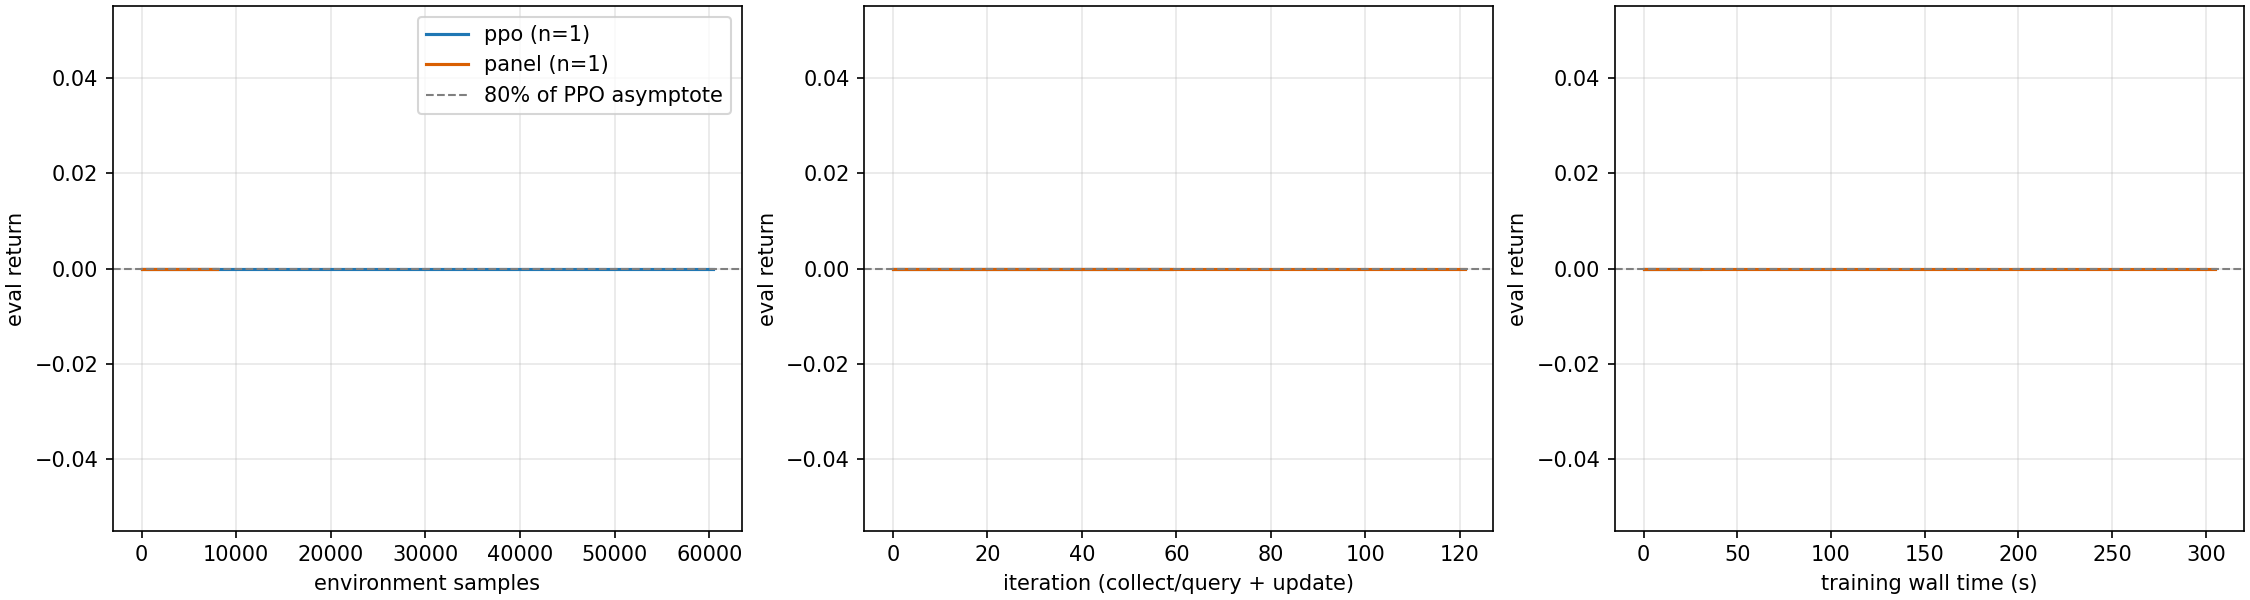
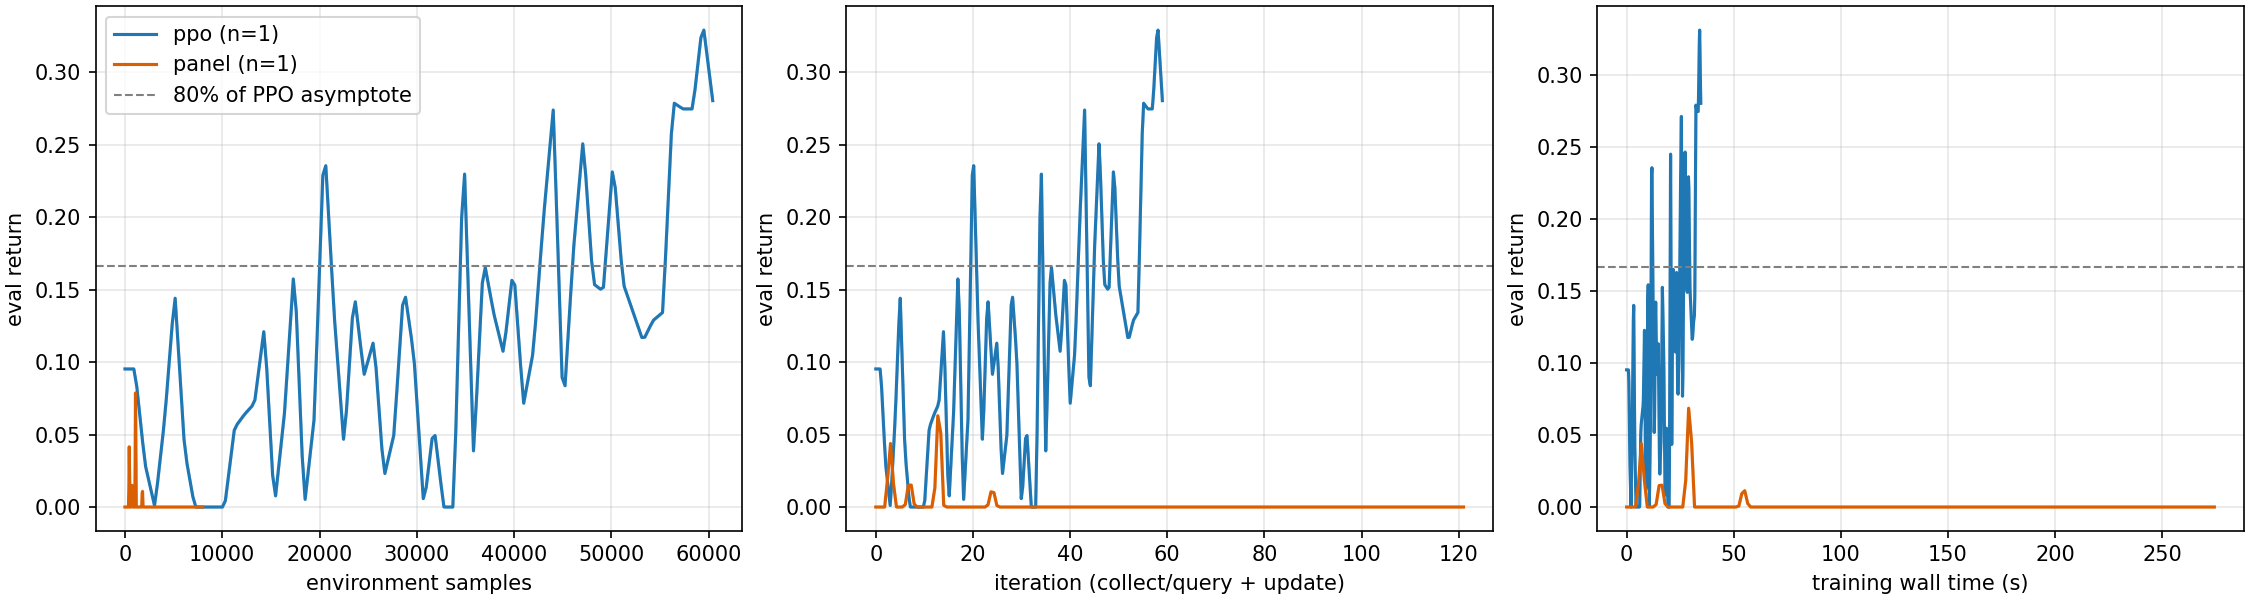
Add real rollout support and evaluation report for panel training

diff --git a/reports/H1_01_collapse_eval.html b/reports/H1_01_collapse_eval.html
@@ -1,0 +1,160 @@
+<!doctype html>
+<html lang="en">
+<head>
+<meta charset="utf-8">
+<meta name="viewport" content="width=device-width, initial-scale=1">
+<title>Panel collapse eval: Empty-5x5</title>
+<style>
+:root{
+  --bg:#f9f9f7; --surface:#fcfcfb; --ink:#0b0b0b; --ink2:#52514e; --muted:#898781; --grid:#e1e0d9; --axis:#c3c2b7;
+  --s1:#2a78d6; --s2:#eb6834; --s3:#1baf7a; --s4:#eda100; --s5:#e87ba4; --s6:#6250d6; --bad:#d03b3b; --good:#006300;
+}
+@media (prefers-color-scheme: dark){:root:not([data-theme="light"]){
+  --bg:#0d0d0d; --surface:#1a1a19; --ink:#f0efec; --ink2:#c3c2b7; --grid:#2c2c2a; --axis:#383835;
+  --s1:#3987e5; --s2:#d95926; --s3:#199e70; --s4:#c98500; --s5:#d55181; --s6:#9085e9; --bad:#e66767; --good:#0ca30c; color-scheme:dark;}}
+:root[data-theme="dark"]{
+  --bg:#0d0d0d; --surface:#1a1a19; --ink:#f0efec; --ink2:#c3c2b7; --grid:#2c2c2a; --axis:#383835;
+  --s1:#3987e5; --s2:#d95926; --s3:#199e70; --s4:#c98500; --s5:#d55181; --s6:#9085e9; --bad:#e66767; --good:#0ca30c; color-scheme:dark;}
+body{background:var(--bg);color:var(--ink);font:15px/1.55 system-ui,-apple-system,Segoe UI,sans-serif;margin:0;padding-inline:max(16px,4vw)}
+main{max-width:980px;margin:0 auto;padding-block:32px 64px}
+h1{font-size:1.7rem;margin:0 0 4px;letter-spacing:-.01em} h2{font-size:1.15rem;margin:36px 0 8px}
+.sub{color:var(--ink2);margin:0 0 20px}
+p,li{max-width:70ch} ul{padding-left:1.2em}
+.card{background:var(--surface);border:1px solid var(--grid);border-radius:10px;padding:16px;margin:12px 0}
+.tiles{display:grid;grid-template-columns:repeat(auto-fit,minmax(200px,1fr));gap:12px;margin:16px 0}
+.tile .n{font-size:1.9rem;font-weight:650;letter-spacing:-.02em} .tile .l{color:var(--ink2);font-size:.85rem}
+.legend{display:flex;flex-wrap:wrap;gap:6px 16px;margin:4px 0 8px;font-size:.85rem;color:var(--ink2)}
+.legend span{display:inline-flex;align-items:center;gap:6px}
+.legend i{width:14px;height:3px;border-radius:2px;display:inline-block}
+.scroll{overflow-x:auto}
+table{border-collapse:collapse;width:100%;font-size:.88rem;font-variant-numeric:tabular-nums}
+th,td{text-align:left;padding:7px 10px;border-bottom:1px solid var(--grid);white-space:nowrap}
+th{color:var(--ink2);font-weight:600} td.num,th.num{text-align:right}
+td.wrap{white-space:normal;min-width:240px}
+.sw{display:inline-block;width:10px;height:10px;border-radius:2px;margin-right:6px}
+svg text{fill:var(--muted);font-size:11px} svg .lab{font-size:11.5px;font-weight:600}
+#tip{position:fixed;pointer-events:none;background:var(--surface);color:var(--ink);border:1px solid var(--axis);border-radius:6px;padding:6px 9px;font-size:.8rem;display:none;box-shadow:0 2px 8px #0003;z-index:5}
+.note{color:var(--ink2);font-size:.85rem}
+.tag{font-size:.75rem;padding:1px 7px;border-radius:99px;border:1px solid var(--axis);color:var(--ink2)}
+</style>
+</head>
+<body>
+<main>
+<h1>Panel collapse eval: Empty-5x5</h1>
+<p class="sub">Does the judge-panel agent keep its return when imagination is shortened or mixed with real rollouts? Single seed, 4,000 env samples per run, 2026-10-28.</p>
+
+<div class="tiles">
+  <div class="card tile"><div class="n" style="color:var(--bad)">0.00</div><div class="l">Control (imagined horizon 8, all imagined): return after 3,456 samples</div></div>
+  <div class="card tile"><div class="n">0.72</div><div class="l">Best peak: horizon 2, imagination only, at ~1,100 samples</div></div>
+  <div class="card tile"><div class="n">5 / 5</div><div class="l">Variants that never fell to zero (all of them changed or shortened the horizon, or mixed real data)</div></div>
+</div>
+
+<h2>Finding</h2>
+<ul>
+  <li><b>Horizon is the lever.</b> Every horizon-2 run learns and stays above 0. The horizon-8 control collapses to 0.00 and stays there. Horizon 8 with real data mixed in (<code>mix50_h8</code>) never collapses but learns poorly (0.07–0.36).</li>
+  <li><b>Real rollouts did not help on this env.</b> Imagination-only horizon 2 is fastest early (0.68 at 832 samples). Mixes spend budget on real steps and reach similar levels later. The ramp (real-only at first) is slowest.</li>
+  <li><b>Likely cause:</b> model errors compounding over long imagined rollouts. This is consistent with the data but not isolated from entropy collapse (see ablations).</li>
+  <li><b>Scope:</b> this is the easiest env. A flat 0.0 on DoorKey-5x5 at 8k samples (old settings) shows the result may not transfer, so env difficulty is a first-class axis below.</li>
+</ul>
+
+<h2>Eval return vs env samples</h2>
+<div class="card">
+  <div class="legend" id="legend"></div>
+  <svg id="chart" viewBox="0 0 900 380" width="100%" role="img" aria-label="Eval return versus env samples for six panel configurations"></svg>
+  <p class="note">Each point is a 10-episode eval, so ±0.1 is noise. Lines show the logged points (about every 190–250 samples; the control's points are the ones reported earlier). Hover a point for its value. The table below has the same numbers.</p>
+</div>
+
+<h2>Summary table</h2>
+<div class="card scroll"><table id="summary"></table></div>
+
+<h2>Configurations</h2>
+<div class="card scroll"><table>
+<tr><th>Run</th><th class="num">Imagined horizon</th><th class="num">Real rollouts / round</th><th class="num">Imagined share</th><th>Note</th></tr>
+<tr><td>control</td><td class="num">8</td><td class="num">0</td><td class="num">100%</td><td>Earlier run, before the fix; same code path as the default config</td></tr>
+<tr><td>imag_h2</td><td class="num">2</td><td class="num">0</td><td class="num">100%</td><td></td></tr>
+<tr><td>mix80_h2</td><td class="num">2</td><td class="num">8 × 4 steps</td><td class="num">80%</td><td>Real steps are charged to the sample budget</td></tr>
+<tr><td>mix50_h2</td><td class="num">2</td><td class="num">8 × 4 steps</td><td class="num">50%</td><td></td></tr>
+<tr><td>mix50_h8</td><td class="num">8</td><td class="num">8 × 4 steps</td><td class="num">50%</td><td>Logged as <code>mix50_h4</code> in the sweep (its real horizon is 4; imagined is 8)</td></tr>
+<tr><td>ramp50</td><td class="num">8</td><td class="num">8 × 4 steps</td><td class="num">0% → 50% over 3,000 samples</td><td>Starts as real-data PPO</td></tr>
+</table></div>
+
+<h2>Where this depends on environment simplicity</h2>
+<p>Empty-5x5 has dense, short-horizon reward and a near-deterministic world, so a small judge ensemble fits it in a few hundred samples (judge disagreement was already ~5e-4). DoorKey needs a key, a door and a far goal: sparse reward, longer credit assignment, and a world with discrete state changes that judges find harder to fit. What we have so far:</p>
+<div class="card scroll"><table>
+<tr><th>Env</th><th>PPO</th><th>Panel</th><th>Status</th></tr>
+<tr><td>Empty-5x5</td><td>~0.77 at ~20k samples</td><td>0.5–0.7 at 1–4k (horizon 2)</td><td><span class="tag">measured, 1 seed</span></td></tr>
+<tr><td>DoorKey-5x5</td><td>~0.7 asymptote, 0.49 at 100k, 0.60 at 220k, 0.75 at 296k</td><td>0.0 at 8k (old settings, horizon 8)</td><td><span class="tag">panel not yet re-run</span></td></tr>
+<tr><td>DoorKey-8x8</td><td>not run</td><td>not run</td><td><span class="tag">planned</span></td></tr>
+</table></div>
+<p class="note">The 80%-of-asymptote H1 threshold only works once PPO's asymptote is measured, which it now is for DoorKey-5x5 but not for Empty-5x5.</p>
+
+<h2>Ablations to mix in next</h2>
+<p>Ordered by how much each would change what we believe. Each is a one-line config change or a small code change on the existing trainer.</p>
+<div class="card scroll"><table>
+<tr><th>#</th><th>Ablation</th><th>Question it answers</th><th>Cost</th></tr>
+<tr><td>1</td><td class="wrap"><b>Horizon sweep</b>: 1, 2, 4, 8 (imagination only)</td><td class="wrap">Is there a smooth degradation, or a cliff? Confirms the main lever.</td><td>config</td></tr>
+<tr><td>2</td><td class="wrap"><b>Entropy bonus</b>: 0.01 vs 0.05 at horizon 8</td><td class="wrap">Separates "model error" from "entropy collapse" as the cause of the zero.</td><td>config</td></tr>
+<tr><td>3</td><td class="wrap"><b>Seeds</b>: 3–5 on the best two configs</td><td class="wrap">Current curves are one seed with 10-episode evals; the dip in imag_h2 may be noise.</td><td>time</td></tr>
+<tr><td>4</td><td class="wrap"><b>Pessimism penalty</b>: subtract k × judge disagreement from imagined reward</td><td class="wrap">Uses the panel's own uncertainty to stop the policy exploiting model errors (the H3 story, in small).</td><td>small code</td></tr>
+<tr><td>5</td><td class="wrap"><b>Competence weights vs uniform average</b></td><td class="wrap">Is the anchor-based weighting earning its place?</td><td>small code</td></tr>
+<tr><td>6</td><td class="wrap"><b>Disagreement queries vs random queries</b> (anchor_frac 1.0)</td><td class="wrap">Is active querying the source of the sample efficiency?</td><td>config</td></tr>
+<tr><td>7</td><td class="wrap"><b>Judge count</b>: 1, 2, 4, 8, 16</td><td class="wrap">How much of the effect needs a panel rather than a single model?</td><td>config</td></tr>
+<tr><td>8</td><td class="wrap"><b>Judge refit budget</b>: judge_steps 25 / 100 / 400</td><td class="wrap">Is the model under-trained or over-trained between rounds?</td><td>config</td></tr>
+<tr><td>9</td><td class="wrap"><b>Imagined start states</b>: whole pool vs recent states only</td><td class="wrap">Imagining from states the policy actually visits may matter more on harder envs.</td><td>small code</td></tr>
+<tr><td>10</td><td class="wrap"><b>PPO epochs on imagined data</b>: 1 / 2 / 4</td><td class="wrap">Over-optimizing on a fixed imagined batch is another route to exploitation.</td><td>config</td></tr>
+<tr><td>11</td><td class="wrap"><b>Env ladder</b>: Empty-5x5, Empty-8x8, DoorKey-5x5, DoorKey-8x8</td><td class="wrap">Where does the best config stop working? This is the "depends on simplicity" axis.</td><td>time</td></tr>
+</table></div>
+<p class="note">Suggested pairing: run 1+2 together on Empty-5x5 (cheap, ~2 min each), then 3, then carry the winner to DoorKey-5x5 with 4 and 9.</p>
+</main>
+<div id="tip"></div>
+<script>
+const S = [
+ {k:"control",  c:"--s5", label:"control (h8, all imagined)", d:[[320,.33],[1664,.48],[2112,.58],[2560,.02],[3456,0],[4000,0]], dash:"5 4"},
+ {k:"imag_h2",  c:"--s1", label:"imag_h2",  d:[[320,.16],[576,.26],[832,.68],[1088,.72],[1344,.49],[1600,.48],[1856,.35],[2112,.35],[2368,.36],[2624,.48],[2880,.39],[3136,.52],[3392,.68],[3648,.67],[3904,.54],[4000,.51]]},
+ {k:"mix80_h2", c:"--s3", label:"mix80_h2", d:[[352,.02],[544,.11],[736,.32],[927,.40],[1117,.33],[1307,.26],[1499,.37],[1691,.27],[1882,.50],[2072,.50],[2264,.53],[2455,.57],[2647,.53],[2839,.58],[3027,.48],[3219,.60],[3410,.59],[3600,.66],[3789,.64],[3978,.53],[4000,.54]]},
+ {k:"mix50_h2", c:"--s2", label:"mix50_h2", d:[[352,.22],[544,.10],[733,.20],[924,.34],[1110,.24],[1302,.35],[1494,.24],[1683,.12],[1869,.36],[2059,.38],[2250,.40],[2437,.48],[2626,.47],[2818,.51],[3007,.47],[3196,.48],[3387,.69],[3579,.49],[3767,.65],[3957,.57],[4000,.68]]},
+ {k:"mix50_h8", c:"--s4", label:"mix50_h8", d:[[352,.07],[542,.17],[734,.15],[925,.17],[1117,.17],[1309,.19],[1498,.20],[1687,.27],[1879,.33],[2066,.33],[2258,.19],[2450,.34],[2641,.19],[2830,.19],[3020,.23],[3211,.23],[3403,.32],[3592,.26],[3781,.18],[3973,.08],[4000,.36]]},
+ {k:"ramp50",   c:"--s6", label:"ramp50 (h8)", d:[[352,.13],[542,0],[734,.06],[925,.18],[1117,.12],[1309,.16],[1500,.16],[1690,.07],[1882,.16],[2074,.23],[2266,.22],[2458,.13],[2647,.21],[2839,.14],[3031,.28],[3223,.24],[3415,.24],[3607,.32],[3798,.39],[3988,.33],[4000,.37]]},
+];
+const css = n => getComputedStyle(document.documentElement).getPropertyValue(n).trim();
+const W=900,H=380,L=44,R=130,T=14,B=34, X0=0,X1=4000, px=x=>L+(x-X0)/(X1-X0)*(W-L-R), py=y=>T+(1-y/0.8)*(H-T-B);
+const tip=document.getElementById("tip");
+function draw(){
+  const svg=document.getElementById("chart"); let h="";
+  for(let y=0;y<=0.8001;y+=0.2){h+=`<line x1="${L}" x2="${W-R}" y1="${py(y)}" y2="${py(y)}" stroke="${css('--grid')}"/><text x="${L-8}" y="${py(y)+4}" text-anchor="end">${y.toFixed(1)}</text>`;}
+  for(let x=0;x<=4000;x+=1000){h+=`<text x="${px(x)}" y="${H-12}" text-anchor="middle">${x.toLocaleString()}</text>`;}
+  h+=`<line x1="${L}" x2="${W-R}" y1="${py(0)}" y2="${py(0)}" stroke="${css('--axis')}"/><text x="${(L+W-R)/2}" y="${H-0}" text-anchor="middle">env samples</text>`;
+  S.forEach(s=>{
+    const col=css(s.c), pts=s.d.map(p=>`${px(p[0])},${py(p[1])}`).join(" ");
+    h+=`<polyline points="${pts}" fill="none" stroke="${col}" stroke-width="2" stroke-linejoin="round" ${s.dash?`stroke-dasharray="${s.dash}"`:""}/>`;
+    const e=s.d[s.d.length-1];
+    s.d.forEach(p=>{h+=`<circle cx="${px(p[0])}" cy="${py(p[1])}" r="9" fill="transparent" data-k="${s.k}" data-x="${p[0]}" data-y="${p[1]}"/><circle cx="${px(p[0])}" cy="${py(p[1])}" r="2.5" fill="${col}" stroke="${css('--surface')}" stroke-width="1.5" pointer-events="none"/>`;});
+    s._lab={y:py(e[1]),col};
+  });
+  // direct labels, nudged apart
+  const labs=[...S].sort((a,b)=>a._lab.y-b._lab.y); let last=-99;
+  labs.forEach(s=>{let y=Math.max(s._lab.y,last+14); last=y; h+=`<text class="lab" x="${W-R+8}" y="${y+4}" style="fill:${css('--ink')}"><tspan fill="${s._lab.col}">●</tspan> ${s.k}</text>`;});
+  svg.innerHTML=h;
+  svg.querySelectorAll("circle[data-k]").forEach(c=>{
+    c.onmousemove=e=>{tip.style.display="block";tip.style.left=e.clientX+12+"px";tip.style.top=e.clientY+12+"px";tip.innerHTML=`<b>${c.dataset.k}</b><br>${(+c.dataset.x).toLocaleString()} samples → return ${(+c.dataset.y).toFixed(2)}`};
+    c.onmouseleave=()=>tip.style.display="none";
+  });
+}
+function legend(){document.getElementById("legend").innerHTML=S.map(s=>`<span><i style="background:${css(s.c)}"></i>${s.label}</span>`).join("");}
+function table(){
+  let h=`<tr><th>Run</th><th class="num">Peak return</th><th class="num">Peak at (samples)</th><th class="num">Lowest after peak</th><th class="num">Mean of last 5 points</th><th class="num">Last logged</th></tr>`;
+  S.forEach(s=>{
+    let pi=0; s.d.forEach((p,i)=>{if(p[1]>s.d[pi][1])pi=i});
+    const after=s.d.slice(pi+1).map(p=>p[1]), low=after.length?Math.min(...after):s.d[pi][1];
+    const m=s.d.slice(-5).reduce((a,p)=>a+p[1],0)/5, e=s.d[s.d.length-1];
+    h+=`<tr><td><span class="sw" style="background:${css(s.c)}"></span>${s.k}</td><td class="num">${s.d[pi][1].toFixed(2)}</td><td class="num">${s.d[pi][0].toLocaleString()}</td><td class="num">${low.toFixed(2)}</td><td class="num">${m.toFixed(2)}</td><td class="num">${e[1].toFixed(2)}</td></tr>`;
+  });
+  document.getElementById("summary").innerHTML=h;
+}
+function render(){draw();legend();table();}
+render();
+matchMedia("(prefers-color-scheme: dark)").addEventListener("change",render);
+new MutationObserver(render).observe(document.documentElement,{attributes:true,attributeFilter:["data-theme"]});
+</script>
+</body>
+</html>

diff --git a/panel/panel/trainer.py b/panel/panel/trainer.py
@@ -40,6 +40,10 @@ class PanelConfig:
     judge_lr: float = 1e-3
     imag_batch: int = 256
     imag_horizon: int = 8
+    real_starts: int = 0           # real-env policy rollouts per round (charged); 0 = imagination only
+    real_horizon: int = 4
+    imag_frac: float = 1.0         # target share of imagined samples in each PPO batch (1.0 = all imagined)
+    ramp_samples: int = 0          # env samples over which the imagined share rises from 0 to imag_frac
     pool_size: int = 1000
     ppo: PPOConfig = field(default_factory=lambda: PPOConfig(epochs=2))
 
@@ -72,6 +76,58 @@ def imagine(model: ActorCritic, judges: JudgeEnsemble, start_obs: torch.Tensor, 
     keep = ALIVE.reshape(-1) > 0.5
     flat = lambda x: x.reshape(horizon * B, *x.shape[2:])[keep]
     return {"obs": flat(O), "act": flat(A), "logp": flat(LP), "adv": flat(adv), "ret": flat(ret)}
+
+
+@torch.no_grad()
+def real_rollouts(model: ActorCritic, oracle: Oracle, replay: Replay, counter: SampleCounter, starts, horizon: int,
+                  gamma: float, lam: float, budget: int, device):
+    """Roll the policy through the true env from stored snapshots (each step charged).
+
+    Real transitions also go into the replay so the judges learn from them. Returns a PPO batch or None.
+    """
+    rows = []
+    for o, snap in starts:
+        traj = []
+        for _ in range(horizon):
+            if counter.n >= budget:
+                break
+            logits, v = model(torch.as_tensor(o, device=device).unsqueeze(0))
+            dist = Categorical(logits=logits)
+            a = dist.sample()
+            o2, r, term, trunc, nxt = oracle.query(snap, int(a))
+            replay.add_transition(o, int(a), r, o2, term)
+            traj.append((o, int(a), float(dist.log_prob(a)), float(v), r, float(term or trunc)))
+            if term or trunc:
+                break
+            o, snap = o2, nxt
+            replay.add_state(o, snap)
+        if traj:
+            last_v = torch.zeros(1, device=device) if traj[-1][5] else model(torch.as_tensor(o, device=device).unsqueeze(0))[1]
+            rows.append((traj, last_v))
+    if not rows:
+        return None
+    out = {k: [] for k in ("obs", "act", "logp", "adv", "ret")}
+    for traj, last_v in rows:
+        o, a, lp, v, r, d = (torch.as_tensor(np.array(x), dtype=t, device=device) for x, t in zip(
+            zip(*traj), (torch.float32, torch.long, torch.float32, torch.float32, torch.float32, torch.float32)))
+        adv, ret = compute_gae(r.unsqueeze(1), v.unsqueeze(1), d.unsqueeze(1), last_v, gamma, lam)
+        for k, x in zip(out, (o, a, lp, adv.squeeze(1), ret.squeeze(1))):
+            out[k].append(x)
+    return {k: torch.cat(x) for k, x in out.items()}
+
+
+def mix_batches(real, imag, frac: float, gen: torch.Generator):
+    """Combine real and imagined PPO batches so imagined samples are `frac` of the total (capped by supply)."""
+    if real is None or real["obs"].shape[0] == 0:
+        return imag
+    if frac >= 1.0:
+        return imag
+    n_imag = imag["obs"].shape[0]
+    want = int(round(real["obs"].shape[0] * frac / max(1.0 - frac, 1e-6)))
+    if want < n_imag:
+        keep = torch.randperm(n_imag, generator=gen)[:want].to(imag["obs"].device)
+        imag = {k: v[keep] for k, v in imag.items()}
+    return {k: torch.cat([real[k], imag[k]]) for k in real}
 
 
 def train_panel(env_id: str, total_steps: int, seed: int = 0, cfg: Optional[PanelConfig] = None,
@@ -140,6 +196,12 @@ def train_panel(env_id: str, total_steps: int, seed: int = 0, cfg: Optional[Pane
         starts = torch.as_tensor(np.stack([replay.pool_obs[i] for i in
                                            rng.choice(len(replay.pool_obs), cfg.imag_batch)]), device=dev)
         batch = imagine(model, judges, starts, cfg.imag_horizon, cfg.ppo.gamma, cfg.ppo.gae_lambda)
+        if cfg.real_starts > 0:
+            frac = cfg.imag_frac * (min(1.0, counter.n / cfg.ramp_samples) if cfg.ramp_samples else 1.0)
+            ridx = rng.choice(len(replay.pool_snaps), cfg.real_starts)
+            real = real_rollouts(model, oracle, replay, counter, [(replay.pool_obs[i], replay.pool_snaps[i]) for i in ridx],
+                                 cfg.real_horizon, cfg.ppo.gamma, cfg.ppo.gae_lambda, total_steps, dev)
+            batch = mix_batches(real, batch, frac, gen)
         if batch["obs"].shape[0] > 0:
             policy_steps += ppo_update(model, opt, batch, cfg.ppo, gen)["grad_steps"]
         train_s += time.perf_counter() - t0
